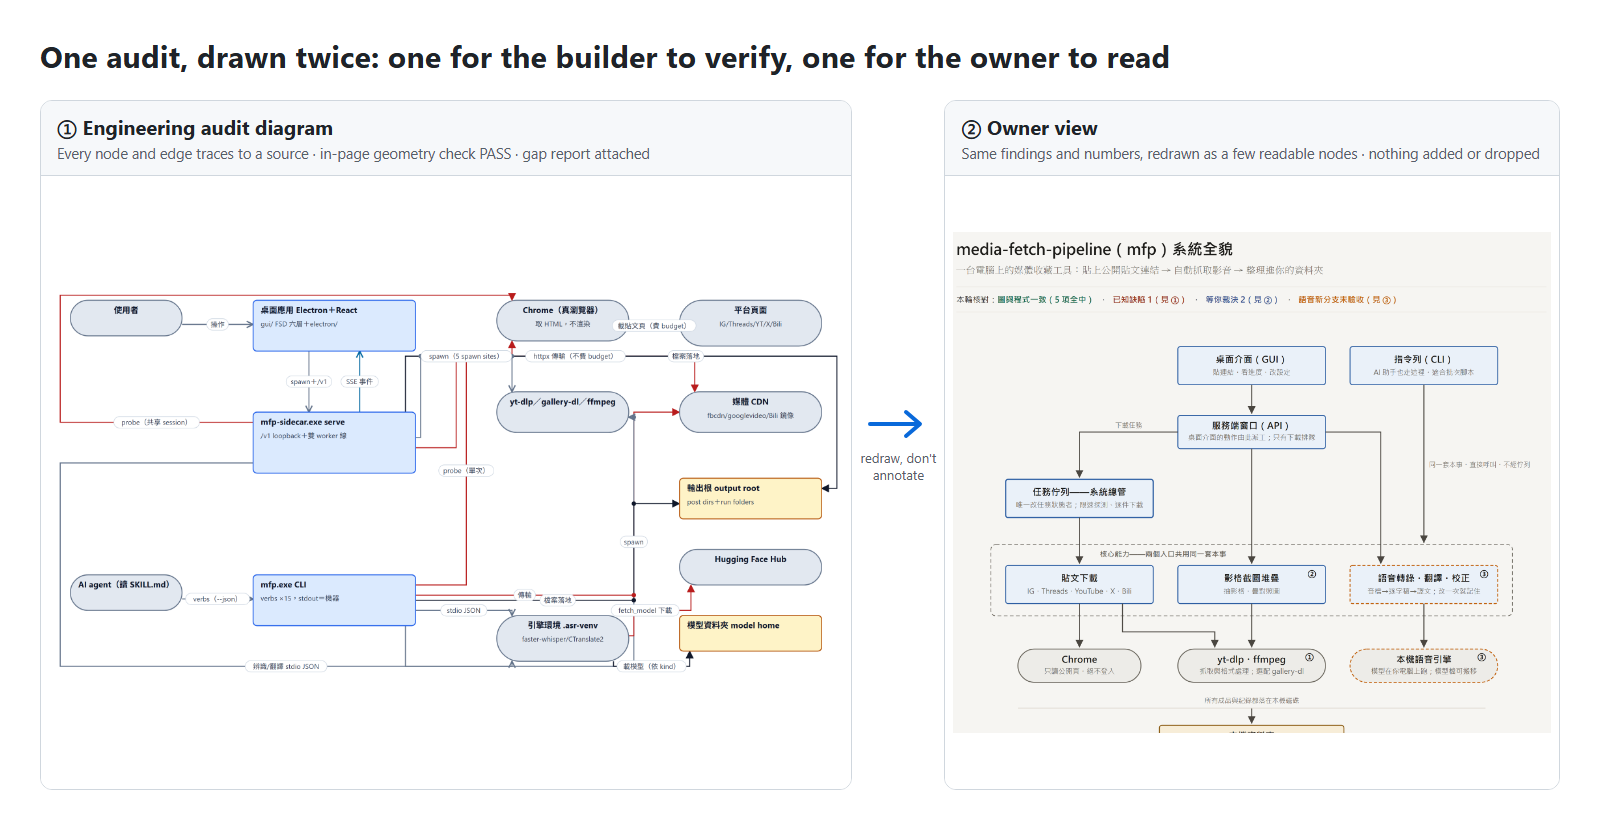
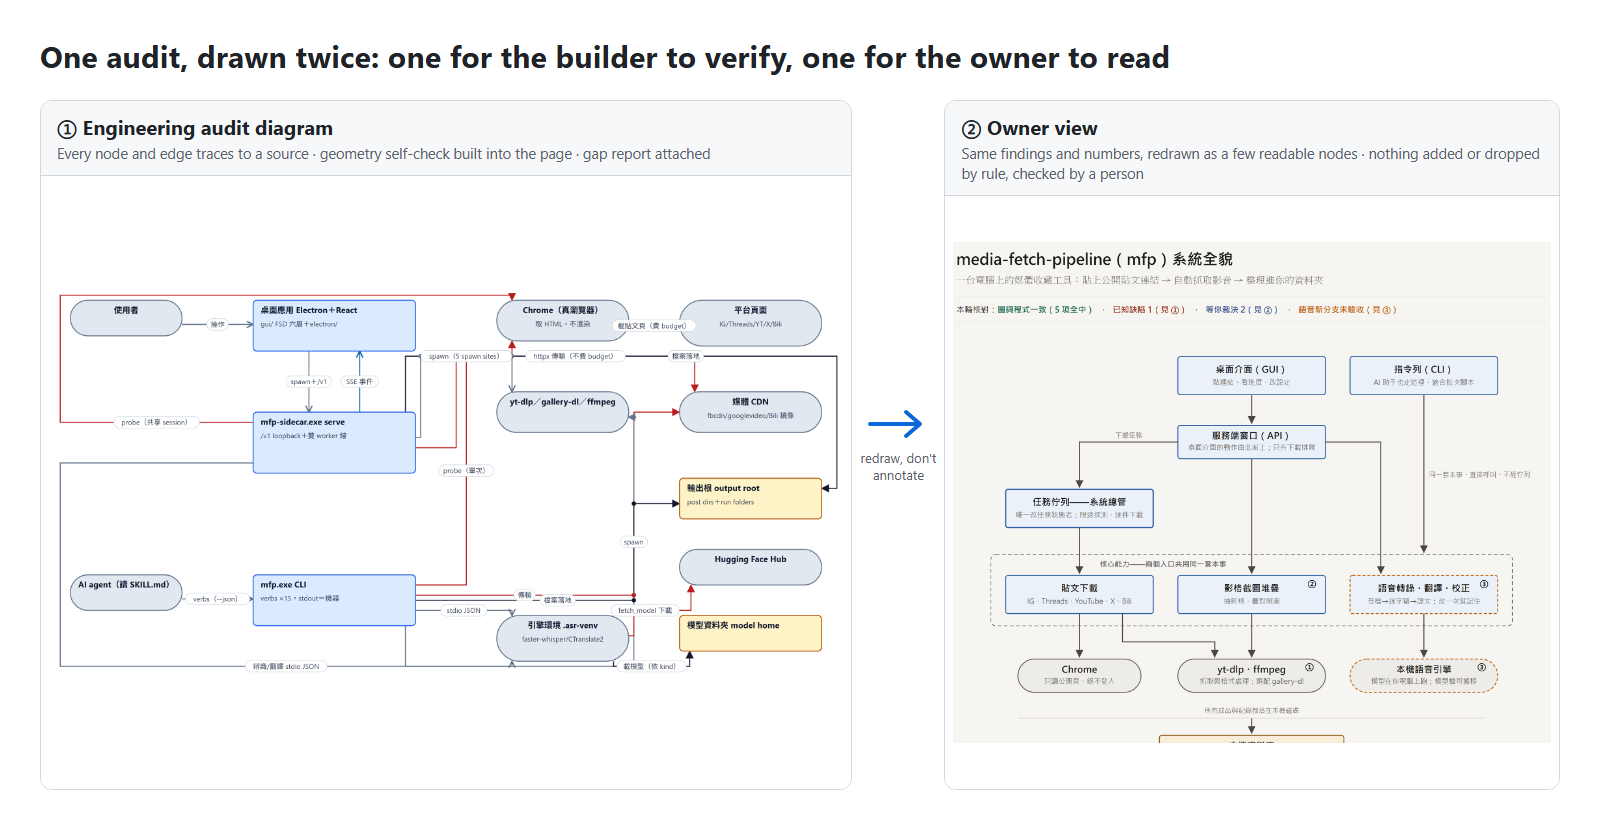
docs(readme): apply release review fixes
Drop PASS claims from hero and alt text, unnumber the workflow sketch,
give the English page its release and limits routes, soften hop wording.

diff --git a/docs/assets/build_assets.py b/docs/assets/build_assets.py
@@ -33,18 +33,18 @@ HERO_TEXT = {
         "lang": "zh-Hant",
         "title": "同一份稽核，畫兩次：一張給作者驗，一張給擁有者讀",
         "left": "① 工程稽核圖",
-        "left_sub": "每個節點與連線追得到來源 · 頁內幾何自檢 PASS · 附缺口報告",
+        "left_sub": "每個節點與連線追得到來源 · 頁面自帶幾何自檢 · 附缺口報告",
         "right": "② 擁有者視圖",
-        "right_sub": "同樣的發現與數字，重畫成少量可讀節點 · 不新增、不刪除",
+        "right_sub": "同樣的發現與數字，重畫成少量可讀節點 · 規則上不增不減，由人工對照驗收",
         "arrow": "重畫，不加註",
     },
     "en": {
         "lang": "en",
         "title": "One audit, drawn twice: one for the builder to verify, one for the owner to read",
         "left": "① Engineering audit diagram",
-        "left_sub": "Every node and edge traces to a source · in-page geometry check PASS · gap report attached",
+        "left_sub": "Every node and edge traces to a source · geometry self-check built into the page · gap report attached",
         "right": "② Owner view",
-        "right_sub": "Same findings and numbers, redrawn as a few readable nodes · nothing added or dropped",
+        "right_sub": "Same findings and numbers, redrawn as a few readable nodes · nothing added or dropped by rule, checked by a person",
         "arrow": "redraw, don't annotate",
     },
 }

diff --git a/README.en.md b/README.en.md
@@ -42,7 +42,7 @@ This repository connects both ends:
 **Five views of one audit**<br>
 <sub>context, processes and channels, import layers, state machine, branch overlay; geometry self-check top right</sub>
 
-<img src="docs/assets/audit-tabs.gif" alt="Cycling through the five tabs of the audit page, each showing geometry self-check PASS" width="100%">
+<img src="docs/assets/audit-tabs.gif" alt="Cycling through the five tabs of the audit page, each with the in-page geometry self-check badge top right" width="100%">
 
 </td>
 <td width="50%" valign="top">
@@ -58,7 +58,7 @@ This repository connects both ends:
 <td valign="top">
 
 **Line hops**<br>
-<sub>lines that merely pass each other hop with a small semicircle; only real joins get a dot — no "+" that looks like a join</sub>
+<sub>lines that merely pass each other hop with a small semicircle; only real joins get a dot — by default no "+" that looks like a join (old pages can pin the plain style; a bare "+" raises a warning)</sub>
 
 <img src="docs/assets/line-hop.png" alt="A solid line hops over a red dashed line with a small semicircle" width="100%">
 
@@ -83,7 +83,7 @@ This repository connects both ends:
 
 ```text
 Read AGENTS.md first and follow its reading order through docs/BUILD-SPEC.md and docs/EVIDENCE.md; reference-impl/ holds working originals to learn from, not to paste wholesale.
-From the repo root run python -X utf8 verify/run_controls.py reference-impl <a-new-folder-that-does-not-exist> (it copies, mutates and deletes that folder, so never point it at an existing one) and compare the output with verify/controls_run.txt; sha256 values and counts must match and every line must end in ok (route-stats timings differ per run).
+From the repo root run python -X utf8 verify/run_controls.py reference-impl <a-new-folder-that-does-not-exist> (it copies, mutates and deletes that folder, so never point it at an existing one) and compare the output with verify/controls_run.txt; sha256 values and counts must match and every control line must end in ok (route-stats timings differ per run).
 Then read spec §8 and list which paths and tools map to what in my environment; wait for my confirmation before adapting.
 Then draw my first audit diagram per spec §2: list sources (step 0), write the text model, open the gap report, render last; have a subagent that did not draw it review the gap table.
 ```
@@ -117,9 +117,15 @@ Four principles run through everything: **a diagram without a model is a screens
 | see what was measured and what is not claimed | [`docs/EVIDENCE.md`](docs/EVIDENCE.md) | English |
 | a machine-readable index (llms.txt) | [`llms.txt`](llms.txt) | English |
 
+## This release
+
+**v1.0.1 (2026-11-01)**: documentation and README images only (this page, the zh-TW page, the developer guide, llms.txt); code and examples unchanged.
+
+**v1.0.0 (2026-11-01)**: flowchart notation, line hops by default, a flowchart added to the audit's standard view set, presentational-view rule R13 (a crossing never reads as a join); all 12 machine controls pass. Full notes: [`CHANGELOG.md`](CHANGELOG.md).
+
 ## Limits (summary)
 
-Run only on Windows 11 + Node 24.22 + Python 3.12. This release did not re-run the in-page geometry check in a browser, and appearance was not re-confirmed by a person. Full list: [`docs/EVIDENCE.md`](docs/EVIDENCE.md) "Not claimed".
+Run only on Windows 11 + Node 24.22 + Python 3.12. This release did not re-run the in-page geometry check in a browser, and appearance was not re-confirmed by a person. The full limits list and the manual acceptance checklist are in [`docs/DEVELOPER.md`](docs/DEVELOPER.md#範圍與限制) (Traditional Chinese) and spec §8; what this release did not claim is in [`docs/EVIDENCE.md`](docs/EVIDENCE.md).
 
 ## Author
 

diff --git a/README.md b/README.md
@@ -28,7 +28,7 @@
 
 這個 repo 把兩件事接成一條線：
 
-| | 你得到的 | 怎麼保證 |
+| | 你得到的 | 怎麼守住 |
 |---|---|---|
 | **① 畫圖**（diagram-authoring） | 架構圖、狀態機、流程圖、稽核視圖組 | 每個節點與連線追得到來源，追不到的標 `[assumed]`；先寫文字模型再出圖；頁面自帶幾何自檢；一定附**缺口報告**（資料答不了什麼） |
 | **② 對讀者調校**（audience-fit） | 給擁有者、主管、非工程讀者的版本 | 只換讀者、不換發現：數字、因果強度、範圍、限制一律不准改輕；改寫版與原版成對交付 |
@@ -42,7 +42,7 @@
 **同一份稽核的五張視圖**<br>
 <sub>系統情境、進程與通道、匯入分層、狀態機、branch 疊層；右上角是頁內幾何自檢</sub>
 
-<img src="docs/assets/audit-tabs.gif" alt="依序切換稽核頁的五個分頁，每張圖右上角都顯示幾何自檢 PASS" width="100%">
+<img src="docs/assets/audit-tabs.gif" alt="依序切換稽核頁的五個分頁，每張圖右上角是頁內幾何自檢的結果標示" width="100%">
 
 </td>
 <td width="50%" valign="top">
@@ -58,7 +58,7 @@
 <td valign="top">
 
 **跳線（line hop）**<br>
-<sub>兩條線只是經過，就畫小半圓跳過去；真的相接才畫實心點。不會再有「看起來像相接」的 +</sub>
+<sub>兩條線只是經過，就畫小半圓跳過去；真的相接才畫實心點。預設不再出現「看起來像相接」的 +（舊圖可固定舊畫法，仍畫成 + 的地方會發警告）</sub>
 
 <img src="docs/assets/line-hop.png" alt="水平實線在與紅色虛線交叉的地方畫成一個小半圓，表示兩線沒有相接" width="100%">
 
@@ -110,6 +110,8 @@ flowchart LR
 各元件、程式庫模組、目錄結構與設計取捨，見 [開發者文件](docs/DEVELOPER.md)。
 
 ## 這一版
+
+**v1.0.1（2026-11-01）**：只更新說明文件與 README 圖（本頁、英文版、開發者文件、llms.txt），程式與範例不變。
 
 **v1.0.0（2026-11-01）**：流程圖記號、預設跳線、稽核標準圖多一張流程圖、展示圖規則 R13（交叉不能像相接）；機器驗收 12 項全過。完整內容見 [`CHANGELOG.md`](CHANGELOG.md)。
 

diff --git a/docs/DEVELOPER.md b/docs/DEVELOPER.md
@@ -73,19 +73,19 @@ flowchart TB
 
 ## 畫圖流程
 
-規格 §2 的正式版本。重點是**順序**：先來源、再模型、再缺口，最後才是圖。
+規格 §2 的簡化示意，只表達**順序**：先來源、再模型、再缺口，最後才是圖。步驟編號與完整內容以 [`BUILD-SPEC.md`](BUILD-SPEC.md) §2 與 `skills/diagram-authoring/SKILL.md` 為準（圖上不標號，避免和它們的 Step 編號混淆）。
 
 ```mermaid
 flowchart TB
-  A["0 列出來源<br/>每個共用資源在環境裡 grep 一遍"] --> B["1 寫文字模型<br/>節點表・邊表・狀態表"]
-  B --> C["2 開缺口報告<br/>資料答不了什麼；reality-gap 列"]
-  C --> D{"3 結構檢查<br/>schema・build assert"}
+  A["列出來源<br/>每個共用資源在環境裡 grep 一遍"] --> B["寫文字模型<br/>節點表・邊表・狀態表"]
+  B --> C["開缺口報告<br/>資料答不了什麼；reality-gap 列"]
+  C --> D{"結構檢查<br/>schema・build assert"}
   D -- 失敗 --> B
-  D -- 通過 --> E["4 路由與渲染<br/>跳線・接點・頁內幾何自檢"]
+  D -- 通過 --> E["路由與渲染<br/>跳線・接點・頁內幾何自檢"]
   E --> F{"自檢 PASS？"}
   F -- 否 --> B
-  F -- 是 --> G["5 覆蓋宣告<br/>每張標準圖：畫了／排除＋理由"]
-  G --> H["6 乾淨脈絡審缺口表<br/>畫圖的人不能自己簽"]
+  F -- 是 --> G["覆蓋宣告<br/>每張標準圖：畫了／排除＋理由"]
+  G --> H["乾淨脈絡審缺口表<br/>畫圖的人不能自己簽"]
   H --> I["交付：頁面＋建置腳本＋sha256"]
 ```
 

diff --git a/CHANGELOG.md b/CHANGELOG.md
@@ -2,7 +2,7 @@
 
 Versions are git tags; each GitHub release attaches a zip built from that tag.
 
-## v1.0.1 — unreleased
+## v1.0.1 — 2026-11-01
 
 Documentation only; nothing under `reference-impl/` or `verify/` changed.
 
